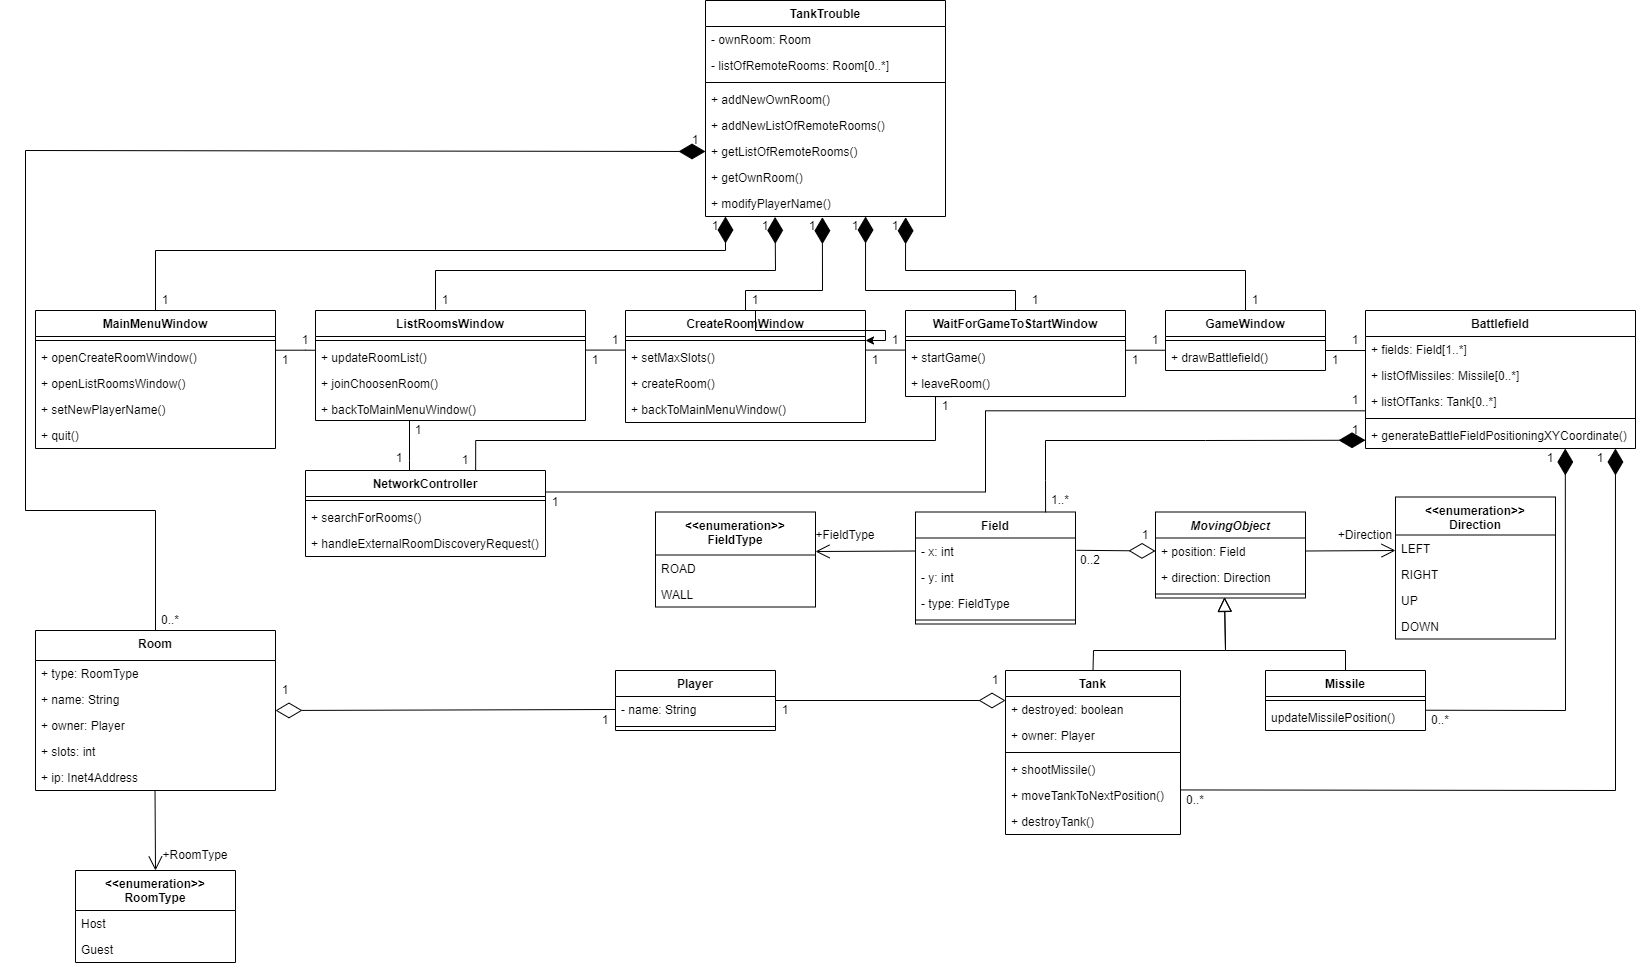
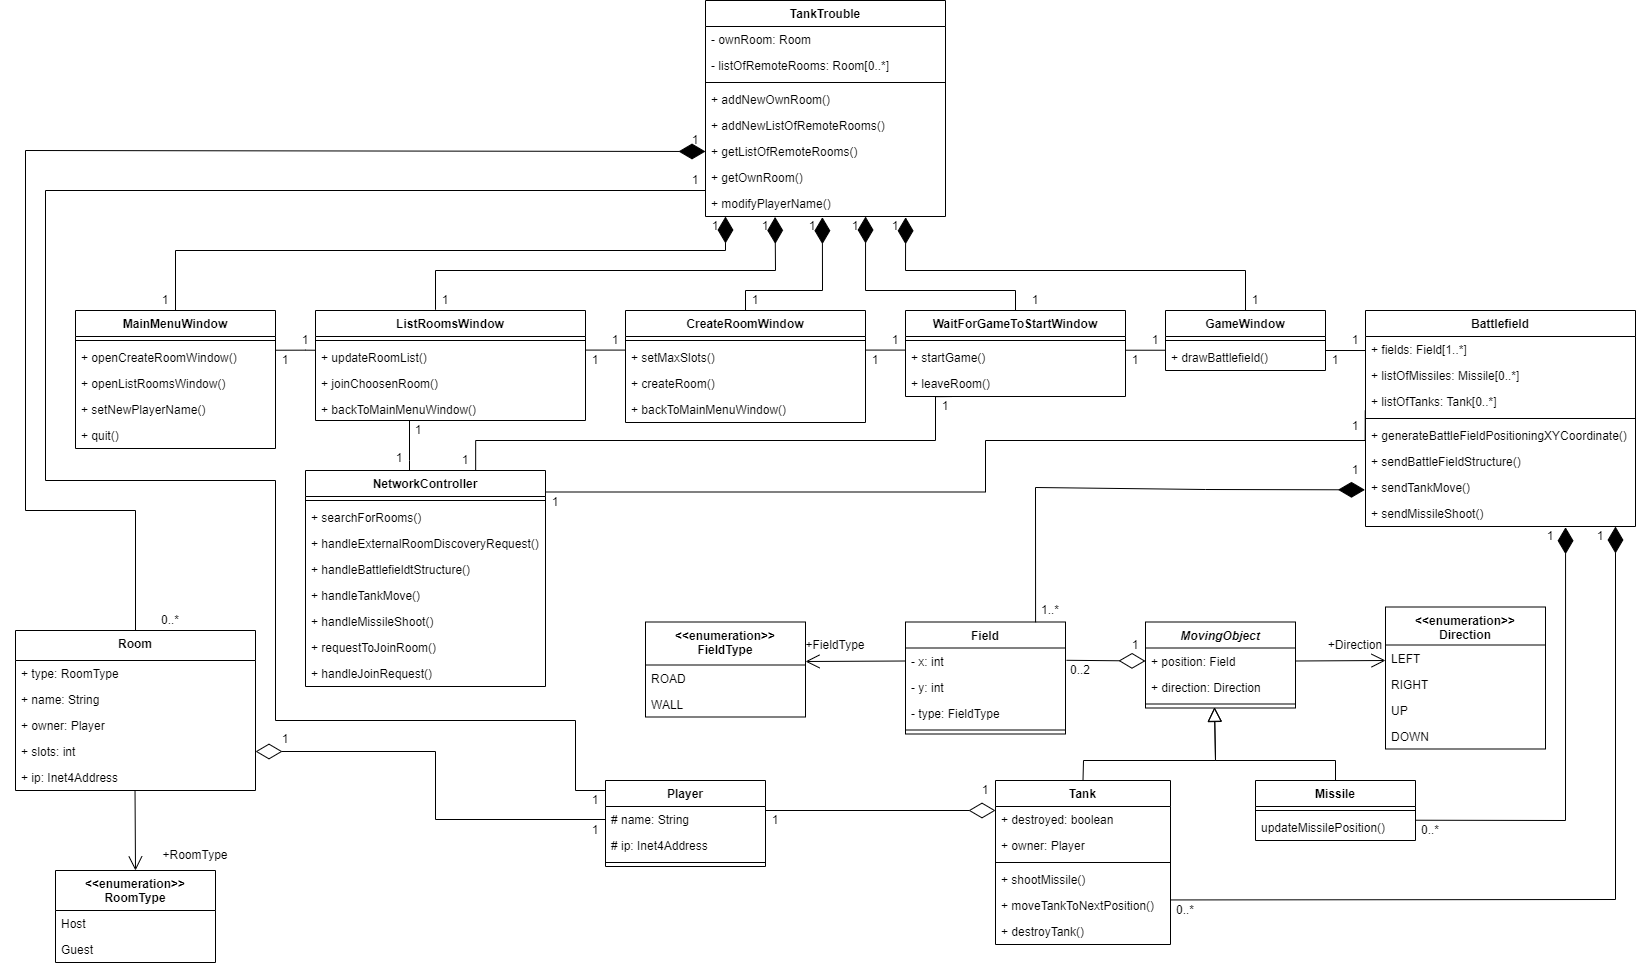
UML Diagram and Tervdokumentáció updated

diff --git a/docs/tervdokumentáció.md b/docs/tervdokumentáció.md
@@ -80,12 +80,18 @@ Ez az osztály felelős a hálózati kommunikáció összefogásáért.
 
 A `NetworkController` objektum feladata hálózaton elérhető szobák felderítése, az alhálózati maszknak megfelelő IP-cím tartományban található összes (kivéve a network és broadcast) címekre küldött TCP/IP csomagokkal abban az esetben, ha a felhasználó vendégként keres szobákat. Ha a felhasználó házigazda, akkor az objektum feladata a vendégek által küldött csomagokra válaszolni a szoba nevével, a férőhelyek számával, és az eddig becsatlakozott felhasználók neveinek listájával (a szerver mindig ezeket az adatokat teszi a válaszba, a kliens pedig a számára éppen szükséges adatokat használja fel az üzenetből, az aktuális nézetnek megfelelően). Ha a felhasználó házigazda, de a szobában már elindult a játék, akkor ez a szolgáltatás megszűnik, és a gép egyáltalán nem reagál a beérkező szoba-létezésre vonatkozó kérdésekre a játék befejezéséig. Ha egy vendég típusú felhasználó már nem szobát keres, hanem becsatlakozott és az előszobában várakozik, akkor nem küld üzenetet az összes címre, hanem csak célirányosan a választott szobához tartozó szerverrel kommunikál.
 
-Szintén ennek az objektumnak a feladata a `Battlefield`-el együttműködve játék közben a csatatéren történt események szinkronizálása a gépek között. Amennyiben egy tank megmozdul (`moveTankToNextPosition`), vagy egy lövedék keletkezik (`shootMissile`), ez az osztály küldi be ezt az információt a szervernek, ami továbbítja azt az összes csatlakozott játékosnak. Ezeknek az adatoknak az ismeretében már minden kliensen külön-külön számítható a játéktér állapota (`updateXXX` függvények). Ennek megfelelően szintén ennek az objektumnak a feladata fogadni a mozgásokra illetve lövések leadására vonatkozó információkat, és továbbítani azokat a `Battlefield` felé, ami feldolgozza azokat. Ha a felhasználó gépe a szerver, akkor ezen felül még a csatlakozott játékosok listáját is tárolnia kell, és közvetítenie ezeket az üzeneteket minden játékos felé (~broadcast, de csak az adott címekre nézve).
+Szintén ennek az objektumnak a feladata a `Battlefield`-el együttműködve játék közben a csatatéren történt események szinkronizálása a gépek között. Amennyiben egy tank megmozdul (`moveTankToNextPosition`), vagy egy lövedék keletkezik (`shootMissile`), ez az osztály küldi be ezt az információt a szervernek, ami továbbítja azt az összes csatlakozott játékosnak. Ezeknek az adatoknak az ismeretében már minden kliensen külön-külön számítható a játéktér állapota. Ennek megfelelően szintén ennek az objektumnak a feladata fogadni a mozgásokra illetve lövések leadására vonatkozó információkat, és továbbítani azokat a `Battlefield` felé, ami feldolgozza azokat. Ha a felhasználó gépe a szerver, akkor ezen felül még a csatlakozott játékosok listáját is tárolnia kell, és közvetítenie ezeket az üzeneteket minden játékos felé (~broadcast, de csak az adott címekre nézve).
 
 Ide tartozik még a szoba generálásakor a játéktér felépítésére és a tankok pozíciójára és irányára vonatkozó adatok küldése (szerver esetén) vagy fogadása (kliens esetén), és továbbítása a `Battlefield` vezérlő felé.
 
-A `NetworkController` feladata továbbá, hogy kezelje a szobákba való bejelentkezési kérelmeket ezeket továbbítsa a `WaitForGameToStartWindow`-nak és egy felugró ablakban ezt jelezze a szoba tulajdonosának. Amennyiben elfogadta a kérelmet a szoba tulajdonosa, akkor ez az osztály becsatlakoztatja az új játékost.
+A `NetworkController` feladata továbbá, hogy kezelje a szobákba való bejelentkezési kérelmeket (`requestToJoinRoom`) ezeket továbbítsa a `WaitForGameToStartWindow`-nak és egy felugró ablakban ezt jelezze a szoba tulajdonosának. Amennyiben elfogadta a kérelmet a szoba tulajdonosa, akkor ez az osztály becsatlakoztatja az új játékost (`handleJoinRequest`).
 
 ### Room
 
 Ez az osztály írja le a felfedezett szobákat.
+
+### Munkamegosztás
+
+Mihalik Márk: GUI és pályagenerálás
+Girgász Péter Ákos: Hálózatkezelés
+Vezse Botond: Játéklogika implementálása
